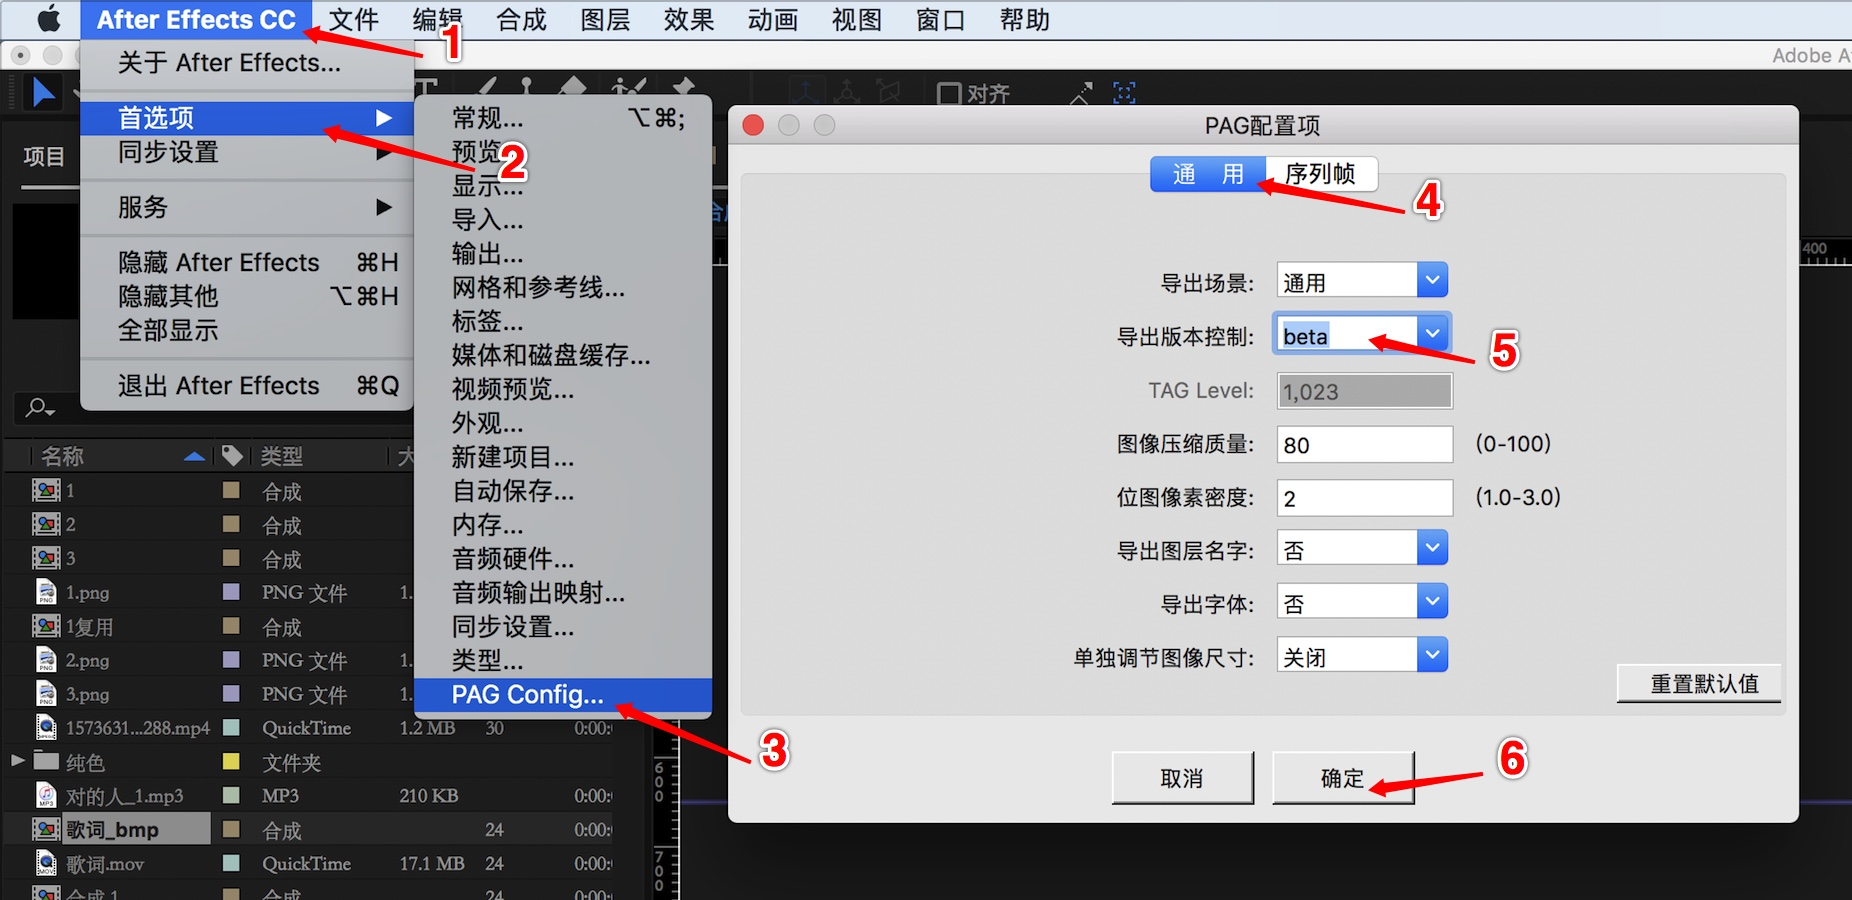
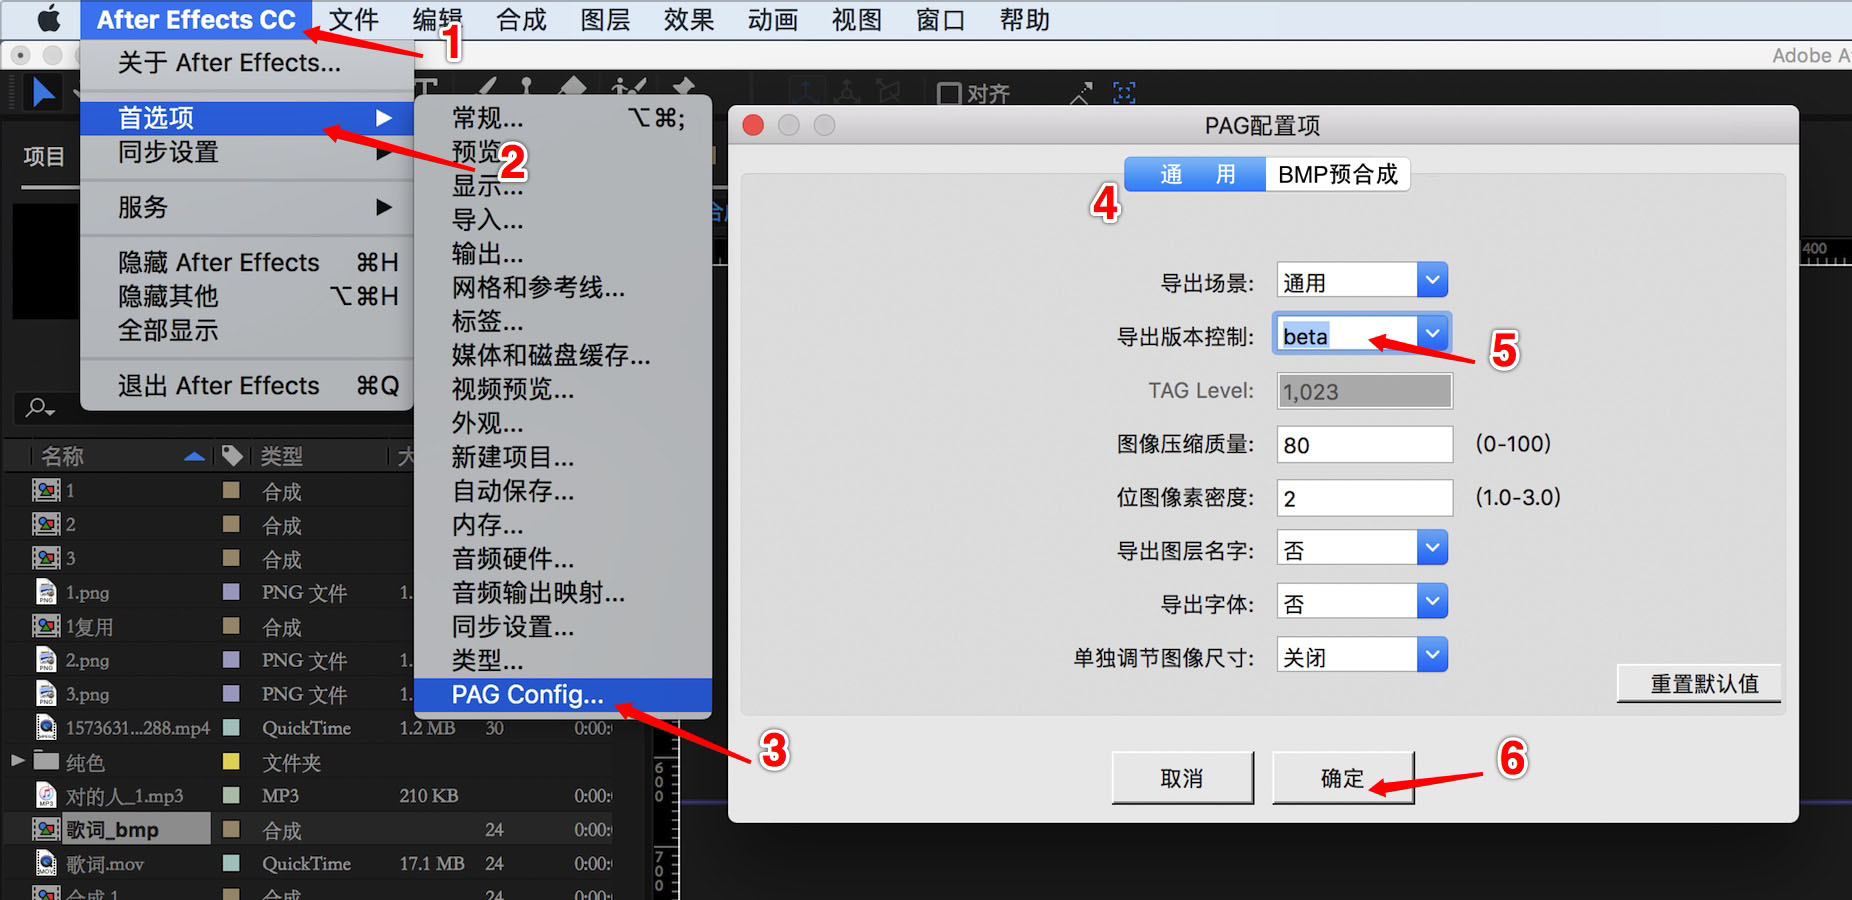
Deploy website
Deploy website version based on c21c8e57e48b485a45bb1c6cb3fe7d98adf1d28f

diff --git a/docs/ae-support.html b/docs/ae-support.html
@@ -56,7 +56,7 @@
             });
         </script></nav></div><div class="container mainContainer docsContainer"><div class="wrapper"><div class="post"><header class="postHeader"><h1 id="__docusaurus" class="postHeaderTitle">AE功能支持列表</h1></header><article><div><span><p>PAG同时支持矢量直接导出和「BMP预合成」导出两种方式。设计师在指定的预合成名字上加 _bmp 后可以将该预合成标记为「BMP预合成」，标记为BMP的预合成在导出时会自动进行截图方式导出。BMP预合成导出方式可以支持所有的AE特性，但是文件体积较大，也无法运行时编辑内容。矢量直接导出的方式文件极小，但仅支持部分AE特性。矢量导出方式通常用于UI动画等对于文件大小和性能敏感，以及需要贴纸内容可编辑的场合。BMP预合成导出方式也可以被矢量导出方式嵌套，作为它的一个图层来实现AE特效和可编辑的结合。具体可以参考：<a href="/docs/pag-export.html"><font color=blue>导出PAG文件</font></a></p>
 <h1><a class="anchor" aria-hidden="true" id="bmp预合成导出"></a><a href="#bmp预合成导出" aria-hidden="true" class="hash-link"><svg class="hash-link-icon" aria-hidden="true" height="16" version="1.1" viewBox="0 0 16 16" width="16"><path fill-rule="evenodd" d="M4 9h1v1H4c-1.5 0-3-1.69-3-3.5S2.55 3 4 3h4c1.45 0 3 1.69 3 3.5 0 1.41-.91 2.72-2 3.25V8.59c.58-.45 1-1.27 1-2.09C10 5.22 8.98 4 8 4H4c-.98 0-2 1.22-2 2.5S3 9 4 9zm9-3h-1v1h1c1 0 2 1.22 2 2.5S13.98 12 13 12H9c-.98 0-2-1.22-2-2.5 0-.83.42-1.64 1-2.09V6.25c-1.09.53-2 1.84-2 3.25C6 11.31 7.55 13 9 13h4c1.45 0 3-1.69 3-3.5S14.5 6 13 6z"></path></svg></a>BMP预合成导出</h1>
-<p>BMP预合成导出模式可以指出所有的AE特效，设计师只需要关注视觉效果本身即可，但是会有一定的性能开销，并且无法做到运行时对动画内容修改编辑。BMP预合成目前支持<strong>位图</strong>和<strong>视频</strong>两种导出的存储格式，位图存储格式做了简单的帧间压缩，每帧只记录改变的区域。平均可以比传统的PNG序列帧文件小 50% 。而视频存储格式帧基于 H264 帧间压缩并补充了透明通道，相同动画文件大小非常有优势。相比位图存储格式只有 10 % ~ 25% 左右的文件大小。下表是一些常用的动画效果在两种导出模式下的文件大小对比：</p>
+<p>BMP预合成导出模式可以指出所有的AE特效，设计师只需要关注视觉效果本身即可，但是会有一定的性能开销，并且无法做到运行时对动画内容修改编辑。BMP预合成目前支持<strong>视频序列帧</strong>和<strong>位图序列帧</strong>两种导出的存储格式，位图存储格式做了简单的帧间压缩，每帧只记录改变的区域。平均可以比传统的PNG序列帧文件小 50% 。而视频存储格式帧基于 H264 帧间压缩并补充了透明通道，相同动画文件大小非常有优势。相比位图存储格式只有 10 % ~ 25% 左右的文件大小。下表是一些常用的动画效果在两种导出模式下的文件大小对比：</p>
 <p><img src="/img/docs/sequence.png" alt="导出格式文件大小对比"></p>
 <p>目前位图存储格式主要使用在部分不支持视频存储格式的场景，比如 web 端。视频存储格式是BMP预合成的默认导出格式，除了文件大小的优势，渲染时还可以开启硬件加速解码，能显著降低设备发热量。</p>
 <h1><a class="anchor" aria-hidden="true" id="矢量导出"></a><a href="#矢量导出" aria-hidden="true" class="hash-link"><svg class="hash-link-icon" aria-hidden="true" height="16" version="1.1" viewBox="0 0 16 16" width="16"><path fill-rule="evenodd" d="M4 9h1v1H4c-1.5 0-3-1.69-3-3.5S2.55 3 4 3h4c1.45 0 3 1.69 3 3.5 0 1.41-.91 2.72-2 3.25V8.59c.58-.45 1-1.27 1-2.09C10 5.22 8.98 4 8 4H4c-.98 0-2 1.22-2 2.5S3 9 4 9zm9-3h-1v1h1c1 0 2 1.22 2 2.5S13.98 12 13 12H9c-.98 0-2-1.22-2-2.5 0-.83.42-1.64 1-2.09V6.25c-1.09.53-2 1.84-2 3.25C6 11.31 7.55 13 9 13h4c1.45 0 3-1.69 3-3.5S14.5 6 13 6z"></path></svg></a>矢量导出</h1>

diff --git a/docs/plugin-config.html b/docs/plugin-config.html
@@ -65,7 +65,7 @@
 <p>可选择stable/beta/custom三项之一，其中：</p>
 <p>stable：稳定版，表示导出稳定版本的PAG文件，这类PAG文件通常可以被线上已经发布的app支持。发布到线上的PAG常用此选项。</p>
 <p>beta：最新版，表示导出最新版本的PAG文件，这类PAG文件可能无法被线上已经发布的app支持。测试PAG新特性时常用此选项。</p>
-<p>custom：自定版，表示导出指定版本的PAG文件，（需搭配TagLevel使用），需要制定到某个特定版本时使用此选项。</p>
+<p>custom：自定义导出为指定的SDK版本能支持的能力，需搭配TagLevel使用，具体TagLevel的值可以从指定版本SDK里的 PAGFile.MaxSupportedTagLevel() 获取。</p>
 <p>2.TagLevel：</p>
 <p>只有当导出版本控制选项取值为custom时，TAGLevel栏才有效，否则无法输入。</p>
 <p>取值范围为44至1023.具体设置到什么值可以咨询客户端开发人员，通常根据线上客户端SDK所支持的最大TagLevel确定。</p>
@@ -80,8 +80,8 @@
 <img src="/img/docs/plugin_config3.jpg" alt=""></p>
 <p>1.BMP预合成后缀：</p>
 <p>当某合成的名字后缀与该后缀相同时，该合成将优先导出为BMP预合成。默认“_bmp”，不区分大小写。</p>
-<p>2.BMP预合成类型：</p>
-<p>可选“视频”和“位图”两种导出的存储格式，视频存储格式会更小，在含有硬件解码的平台上性能也更好。位图存储格式文件更大，在只有软件解码的平台上或者非常小的尺寸时比视频解码略微更快。默认值是 &quot;视频&quot;。</p>
+<p>2.存储格式：</p>
+<p>可选“视频序列帧”和“位图序列帧”两种导出的存储格式，视频存储格式会更小，在含有硬件解码的平台上性能也更好。位图存储格式文件更大，在只有软件解码的平台上或者非常小的尺寸时比视频解码略微更快。默认值是 &quot;视频序列帧&quot;。</p>
 <p>3.导出尺寸上限：</p>
 <p>用于控制导出BMP预合成的最大分辨率（短边）。过大可能会显著增加PAG文件尺寸；过小会影响播放的清晰度。默认720。</p>
 <p>4.“关键帧间隔”：</p>
